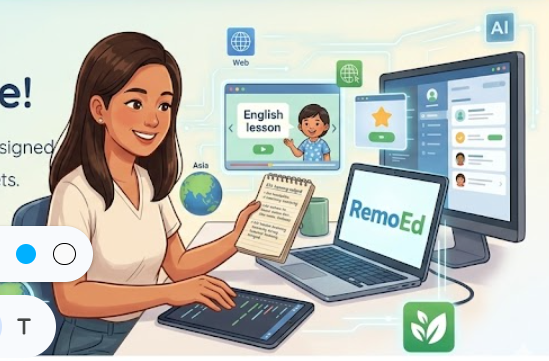
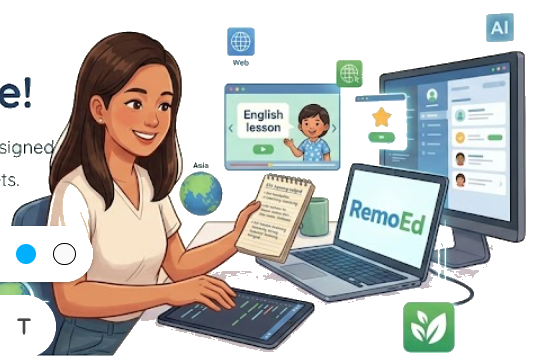
Woman on deskg

diff --git a/public/landing-brand.css b/public/landing-brand.css
@@ -218,6 +218,7 @@ body.page-index .hero-illustration {
   height: auto;
   display: block;
   object-fit: contain;
+  background: transparent;
   filter: drop-shadow(0 18px 32px rgba(19, 38, 58, 0.12));
 }
 

diff --git a/scripts/knockout_hero_illustration.py b/scripts/knockout_hero_illustration.py
@@ -1,0 +1,6 @@
+"""One-off: edge-flood hero PNG to alpha (removes white/cream matting)."""
+from knockout_plan_character_bg import knockout_edge_background
+
+if __name__ == "__main__":
+    knockout_edge_background("public/images/hero-remoed-illustration.png", tol=52)
+    print("ok public/images/hero-remoed-illustration.png")
